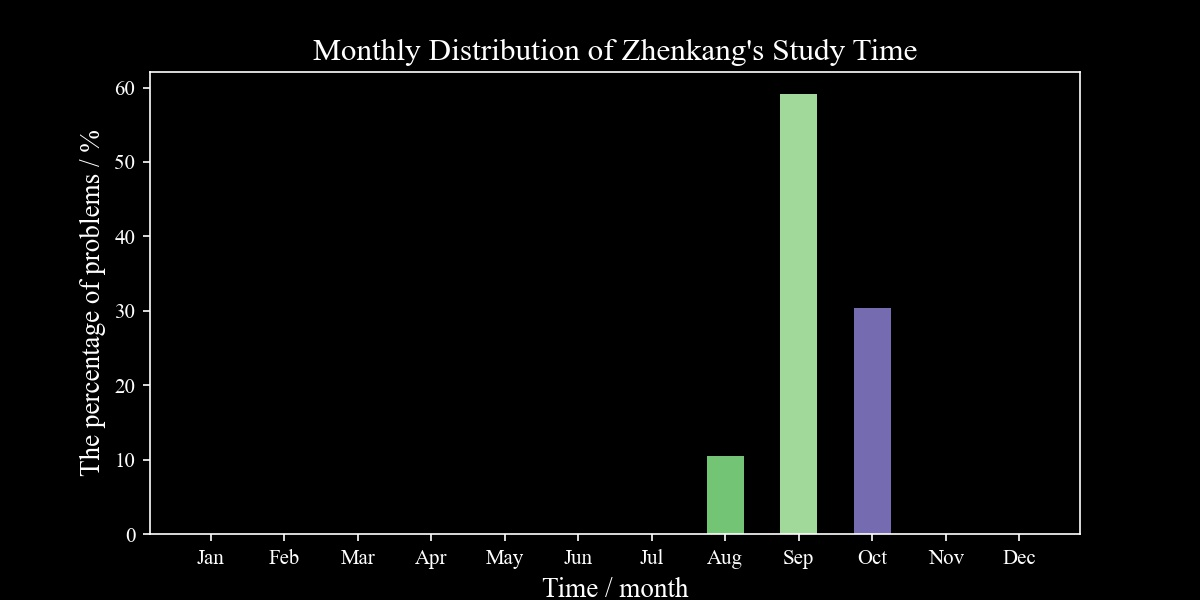
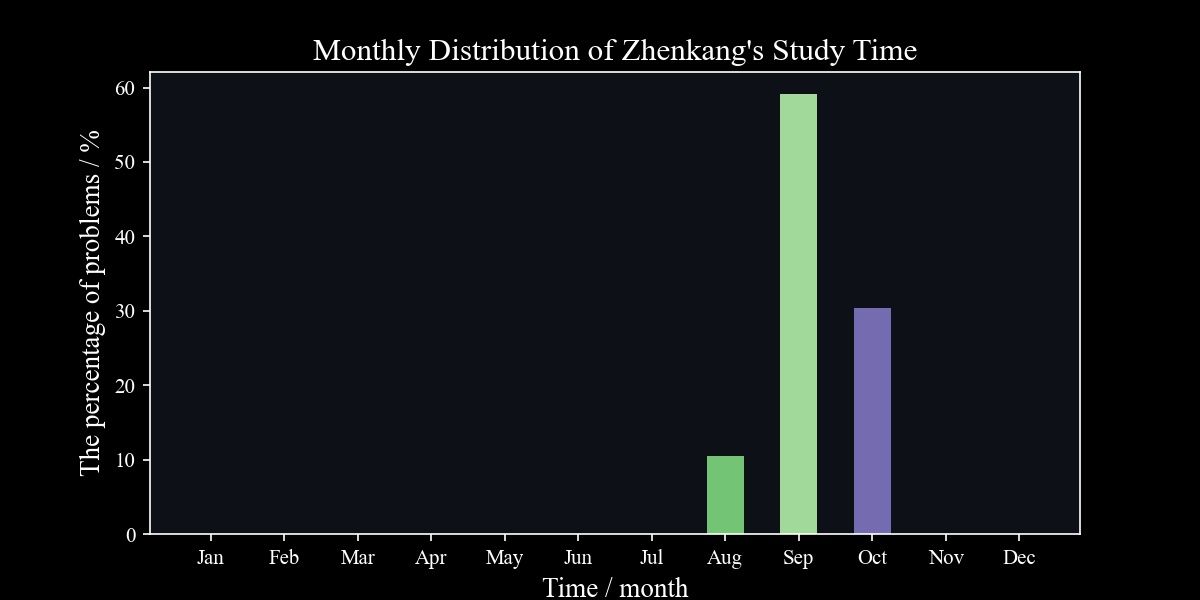
new figure

Changed region(s): [[0.6783, 0.51, 0.7092, 0.87], [0.6167, 0.75, 0.6475, 0.87], [0.6475, 0.12, 0.6783, 0.15]]

diff --git a/myFunction.py b/myFunction.py
@@ -111,14 +111,17 @@ if __name__ == '__main__':
     totalProblems = sum(hourslist)
     
     plt.style.use('dark_background')
-    fig_hours, ax = plt.subplots(figsize=(8, 4)) # ,facecolor='black'
+    githubColor = [13/255,17/255,23/255]
+    fig_hours, ax = plt.subplots(figsize=(8, 4),facecolor=githubColor) # ,facecolor='black'
     hours = [str(i) for i in range(24)]
     hourslist_percent = [ i / totalProblems * 100 for i in hourslist]
     hourscmap = plt.cm.get_cmap('tab20c')
     hoursColor = hourscmap([ i/24 * 4 / 5 for i in range(24)])
     ax.bar(hours, hourslist_percent, width=0.5, label="Working Hours", color = hoursColor)
+    ax.set_facecolor(githubColor)
     for label in ax.xaxis.get_ticklabels()[1::2]:
         label.set_visible(False)
+    
     
     # 设置字号
     fontSize = 10
@@ -132,13 +135,14 @@ if __name__ == '__main__':
     
     # plt.xticks(fontsize = 30)
     
-    fig_months, ax = plt.subplots(figsize=(8, 4))
+    fig_months, ax = plt.subplots(figsize=(8, 4),facecolor=githubColor)
     months = [calendar.month_abbr[i] for i in range(1,13)]
     monthscmap = plt.cm.get_cmap('tab20c')
     totalProblems2021 = sum(yearsDict[2021])
     monthslist_percent = [i / totalProblems2021 * 100 for i in yearsDict[2021]]
     monthsColor = hourscmap([ i/12 * 4 / 5 for i in range(12)])
     ax.bar(months, monthslist_percent, width=0.5, label="Product_1", color=monthsColor)
+    ax.set_facecolor(githubColor)
     # plt.plot(hourslist)
     print(hourslist)
     print(yearsDict)

diff --git a/README.md b/README.md
@@ -19,9 +19,9 @@ My statistics are showed here.
 
 ### LeetCode Contest
 
-| Number |                               Contest Title                               | Score |   Ranking   | Time[^3]   |
-| :----: | :-----------------------------------------------------------------------: | :---: | :---------: | ---------- |
-|   1    | [Weekly Contest 262](https://leetcode-cn.com/contest/weekly-contest-262/) | √√××  | 1352 / 4260 | 2021/10/10 |
+| Number |                               Contest Title                               | Score | Global Ranking | Time       |
+| :----: | :-----------------------------------------------------------------------: | :---: | :------------: | ---------- |
+|   1    | [Weekly Contest 262](https://leetcode-cn.com/contest/weekly-contest-262/) | √√××  |  3997 / 13137  | 2021/10/10 |
 
 ## My Coding Record
 
